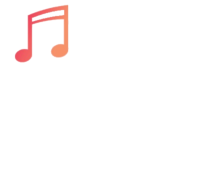
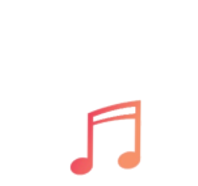
mise en place mediaquery

Changed region(s): [[0.3333, 0.5376, 0.7273, 0.9677], [0.0606, 0.0269, 0.3636, 0.3495]]

diff --git a/sass/style2.min.css b/sass/style2.min.css
@@ -1,2 +1,2 @@
-div,section aside,.container,header,footer{display:-webkit-box;display:-ms-flexbox;display:flex;-webkit-box-pack:center;-ms-flex-pack:center;justify-content:center;text-align:center}body{margin:0;padding:0;font-family:"Segoe UI",Tahoma,Geneva,Verdana,sans-serif;color:#fbc02d;background-size:cover;cursor:default}body header,body footer{background-color:#00897b}body footer{background-color:#00897b}header,footer{width:100%;height:250px}h1{font-size:110px}h2{text-align:center;font-size:35px}section{background-color:#ffd9c9;color:#000;width:50%;margin:60px}section aside{-webkit-box-pack:center;-ms-flex-pack:center;justify-content:center;-webkit-box-align:center;-ms-flex-align:center;align-items:center;-webkit-box-orient:vertical;-webkit-box-direction:normal;-ms-flex-direction:column;flex-direction:column}.bg-color{background-color:#fff;color:#b3f4c6}h3{width:300px;font-size:25px;text-transform:uppercase}h3:after{display:block;content:"";border-bottom:solid 3px rgba(0,0,0,.8);-webkit-transform:scaleX(0);transform:scaleX(0);-webkit-transition:-webkit-transform 250ms ease-in-out;transition:-webkit-transform 250ms ease-in-out;transition:transform 250ms ease-in-out;transition:transform 250ms ease-in-out, -webkit-transform 250ms ease-in-out;-webkit-transform-origin:0% 50%;transform-origin:0% 50%}h3:hover:after{-webkit-transform:scaleX(1);transform:scaleX(1)}div{width:100%;-webkit-box-orient:horizontal;-webkit-box-direction:normal;-ms-flex-direction:row;flex-direction:row;-webkit-box-pack:justify;-ms-flex-pack:justify;justify-content:space-between}div p{text-align:left;line-height:32px;margin:0px 70px 0px 70px;padding:5px}.prix{text-align:right}footer{margin-top:50px;-webkit-box-pack:justify;-ms-flex-pack:justify;justify-content:space-between;height:40px;position:-webkit-sticky;position:sticky;top:500px;left:0px;right:0px;bottom:0px}footer .lien_wiggle{font-size:20px;text-align:justify;margin:10px 10px 0px 10px;background-color:#00897b;color:#fbc02d;text-decoration:none}.lien_wiggle:hover{-webkit-animation:shake 1s;animation:shake 1s;-webkit-animation-iteration-count:infinite;animation-iteration-count:infinite}@-webkit-keyframes shake{0%{-webkit-transform:translate(1px, 1px) rotate(0deg);transform:translate(1px, 1px) rotate(0deg)}10%{-webkit-transform:translate(-1px, -2px) rotate(-1deg);transform:translate(-1px, -2px) rotate(-1deg)}20%{-webkit-transform:translate(-3px, 0px) rotate(1deg);transform:translate(-3px, 0px) rotate(1deg)}30%{-webkit-transform:translate(3px, 2px) rotate(0deg);transform:translate(3px, 2px) rotate(0deg)}40%{-webkit-transform:translate(1px, -1px) rotate(1deg);transform:translate(1px, -1px) rotate(1deg)}50%{-webkit-transform:translate(-1px, 2px) rotate(-1deg);transform:translate(-1px, 2px) rotate(-1deg)}60%{-webkit-transform:translate(-3px, 1px) rotate(0deg);transform:translate(-3px, 1px) rotate(0deg)}70%{-webkit-transform:translate(3px, 1px) rotate(-1deg);transform:translate(3px, 1px) rotate(-1deg)}80%{-webkit-transform:translate(-1px, -1px) rotate(1deg);transform:translate(-1px, -1px) rotate(1deg)}90%{-webkit-transform:translate(1px, 2px) rotate(0deg);transform:translate(1px, 2px) rotate(0deg)}100%{-webkit-transform:translate(1px, -2px) rotate(-1deg);transform:translate(1px, -2px) rotate(-1deg)}}@keyframes shake{0%{-webkit-transform:translate(1px, 1px) rotate(0deg);transform:translate(1px, 1px) rotate(0deg)}10%{-webkit-transform:translate(-1px, -2px) rotate(-1deg);transform:translate(-1px, -2px) rotate(-1deg)}20%{-webkit-transform:translate(-3px, 0px) rotate(1deg);transform:translate(-3px, 0px) rotate(1deg)}30%{-webkit-transform:translate(3px, 2px) rotate(0deg);transform:translate(3px, 2px) rotate(0deg)}40%{-webkit-transform:translate(1px, -1px) rotate(1deg);transform:translate(1px, -1px) rotate(1deg)}50%{-webkit-transform:translate(-1px, 2px) rotate(-1deg);transform:translate(-1px, 2px) rotate(-1deg)}60%{-webkit-transform:translate(-3px, 1px) rotate(0deg);transform:translate(-3px, 1px) rotate(0deg)}70%{-webkit-transform:translate(3px, 1px) rotate(-1deg);transform:translate(3px, 1px) rotate(-1deg)}80%{-webkit-transform:translate(-1px, -1px) rotate(1deg);transform:translate(-1px, -1px) rotate(1deg)}90%{-webkit-transform:translate(1px, 2px) rotate(0deg);transform:translate(1px, 2px) rotate(0deg)}100%{-webkit-transform:translate(1px, -2px) rotate(-1deg);transform:translate(1px, -2px) rotate(-1deg)}}
+.img_bas,div,.titre,section aside,.container,header,footer{display:-webkit-box;display:-ms-flexbox;display:flex;-webkit-box-pack:center;-ms-flex-pack:center;justify-content:center;text-align:center}body{margin:0;padding:0;font-family:"Segoe UI",Tahoma,Geneva,Verdana,sans-serif;color:#fbc02d;background-size:cover;cursor:default}body header,body footer{background-color:#00897b}body footer{background-color:#00897b}header,footer{width:100%;height:250px}h1{font-size:110px}h2{text-align:center;font-size:35px;margin:0px}section{background-color:#ffd9c9;color:#000;width:50%;margin:60px}section aside{-webkit-box-pack:center;-ms-flex-pack:center;justify-content:center;-webkit-box-align:center;-ms-flex-align:center;align-items:center;-webkit-box-orient:vertical;-webkit-box-direction:normal;-ms-flex-direction:column;flex-direction:column}.bg-color{background-color:#fff;color:#b3f4c6}.titre{-webkit-box-orient:vertical;-webkit-box-direction:normal;-ms-flex-direction:column;flex-direction:column;-webkit-box-align:center;-ms-flex-align:center;align-items:center;height:200px;margin-bottom:60px}img{margin:0px 0px 5px}h3{width:300px;font-size:25px}h3:after{display:block;content:"";border-bottom:solid 3px rgba(0,0,0,.8);-webkit-transform:scaleX(0);transform:scaleX(0);-webkit-transition:-webkit-transform 250ms ease-in-out;transition:-webkit-transform 250ms ease-in-out;transition:transform 250ms ease-in-out;transition:transform 250ms ease-in-out, -webkit-transform 250ms ease-in-out;-webkit-transform-origin:0% 50%;transform-origin:0% 50%}h3:hover:after{-webkit-transform:scaleX(1);transform:scaleX(1)}div{width:100%;-webkit-box-orient:horizontal;-webkit-box-direction:normal;-ms-flex-direction:row;flex-direction:row;-webkit-box-pack:justify;-ms-flex-pack:justify;justify-content:space-between}div p{text-align:left;line-height:32px;margin:0px 70px 0px 70px;padding:5px}.prix{text-align:right}.img_bas{width:50%}.img_bas img{width:80px;height:100px;margin-bottom:90px}.img_bas p{margin:50px 0px 0px 0px}footer{margin-top:50px;-webkit-box-pack:justify;-ms-flex-pack:justify;justify-content:space-between;height:40px;position:-webkit-sticky;position:sticky;top:500px;left:0px;right:0px;bottom:0px}footer .lien_wiggle{font-size:20px;text-align:justify;margin:10px 10px 0px 10px;background-color:#00897b;color:#fbc02d;text-decoration:none}.lien_wiggle:hover{-webkit-animation:shake 1s;animation:shake 1s;-webkit-animation-iteration-count:infinite;animation-iteration-count:infinite}@-webkit-keyframes shake{0%{-webkit-transform:translate(1px, 1px) rotate(0deg);transform:translate(1px, 1px) rotate(0deg)}10%{-webkit-transform:translate(-1px, -2px) rotate(-1deg);transform:translate(-1px, -2px) rotate(-1deg)}20%{-webkit-transform:translate(-3px, 0px) rotate(1deg);transform:translate(-3px, 0px) rotate(1deg)}30%{-webkit-transform:translate(3px, 2px) rotate(0deg);transform:translate(3px, 2px) rotate(0deg)}40%{-webkit-transform:translate(1px, -1px) rotate(1deg);transform:translate(1px, -1px) rotate(1deg)}50%{-webkit-transform:translate(-1px, 2px) rotate(-1deg);transform:translate(-1px, 2px) rotate(-1deg)}60%{-webkit-transform:translate(-3px, 1px) rotate(0deg);transform:translate(-3px, 1px) rotate(0deg)}70%{-webkit-transform:translate(3px, 1px) rotate(-1deg);transform:translate(3px, 1px) rotate(-1deg)}80%{-webkit-transform:translate(-1px, -1px) rotate(1deg);transform:translate(-1px, -1px) rotate(1deg)}90%{-webkit-transform:translate(1px, 2px) rotate(0deg);transform:translate(1px, 2px) rotate(0deg)}100%{-webkit-transform:translate(1px, -2px) rotate(-1deg);transform:translate(1px, -2px) rotate(-1deg)}}@keyframes shake{0%{-webkit-transform:translate(1px, 1px) rotate(0deg);transform:translate(1px, 1px) rotate(0deg)}10%{-webkit-transform:translate(-1px, -2px) rotate(-1deg);transform:translate(-1px, -2px) rotate(-1deg)}20%{-webkit-transform:translate(-3px, 0px) rotate(1deg);transform:translate(-3px, 0px) rotate(1deg)}30%{-webkit-transform:translate(3px, 2px) rotate(0deg);transform:translate(3px, 2px) rotate(0deg)}40%{-webkit-transform:translate(1px, -1px) rotate(1deg);transform:translate(1px, -1px) rotate(1deg)}50%{-webkit-transform:translate(-1px, 2px) rotate(-1deg);transform:translate(-1px, 2px) rotate(-1deg)}60%{-webkit-transform:translate(-3px, 1px) rotate(0deg);transform:translate(-3px, 1px) rotate(0deg)}70%{-webkit-transform:translate(3px, 1px) rotate(-1deg);transform:translate(3px, 1px) rotate(-1deg)}80%{-webkit-transform:translate(-1px, -1px) rotate(1deg);transform:translate(-1px, -1px) rotate(1deg)}90%{-webkit-transform:translate(1px, 2px) rotate(0deg);transform:translate(1px, 2px) rotate(0deg)}100%{-webkit-transform:translate(1px, -2px) rotate(-1deg);transform:translate(1px, -2px) rotate(-1deg)}}
 /*# sourceMappingURL=style2.min.css.map */

diff --git a/sass/style.min.css b/sass/style.min.css
@@ -1,2 +1,2 @@
-footer,.lien_transition,.button,.menu,header{display:-webkit-box;display:-ms-flexbox;display:flex;-webkit-box-pack:center;-ms-flex-pack:center;justify-content:center;text-align:center}body{margin:0;padding:0;font-family:"Segoe UI",Tahoma,Geneva,Verdana,sans-serif;color:#fbc02d;background-size:cover}body header{background-color:#00897b}body footer{background-color:#00897b}header{width:100%;height:250px;padding-bottom:50px}h1{font-size:110px}.menu{margin-top:100px;margin-bottom:50px}img{margin:40px;width:200px;height:250px;-webkit-filter:drop-shadow(0 0 0.75rem lightgrey);filter:drop-shadow(0 0 0.75rem lightgrey);-webkit-transform:scale(1);transform:scale(1);-webkit-transition:-webkit-transform 500ms;transition:-webkit-transform 500ms;transition:transform 500ms;transition:transform 500ms, -webkit-transform 500ms}img:hover{-webkit-transform:scale(1.1);transform:scale(1.1);opacity:.4}.lien{background-color:#00897b;color:#fbc02d;text-decoration:none}.lien_transition{width:300px;font-size:25px;border-radius:10px;cursor:default;-webkit-transform:scale(1);transform:scale(1);-webkit-transition:-webkit-transform 500ms;transition:-webkit-transform 500ms;transition:transform 500ms;transition:transform 500ms, -webkit-transform 500ms;padding-bottom:10px}.lien_transition:hover{-webkit-transform:scale(1.2);transform:scale(1.2)}footer{margin-top:50px;-webkit-box-pack:justify;-ms-flex-pack:justify;justify-content:space-between;height:50px;position:-webkit-sticky;position:sticky;top:500px;left:0px;right:0px;bottom:0px}footer .lien_wiggle{font-size:20px;height:40px;text-align:justify;margin:10px 10px 0px 10px}.lien_wiggle:hover{-webkit-animation:shake 1s;animation:shake 1s;-webkit-animation-iteration-count:infinite;animation-iteration-count:infinite}@-webkit-keyframes shake{0%{-webkit-transform:translate(1px, 1px) rotate(0deg);transform:translate(1px, 1px) rotate(0deg)}10%{-webkit-transform:translate(-1px, -2px) rotate(-1deg);transform:translate(-1px, -2px) rotate(-1deg)}20%{-webkit-transform:translate(-3px, 0px) rotate(1deg);transform:translate(-3px, 0px) rotate(1deg)}30%{-webkit-transform:translate(3px, 2px) rotate(0deg);transform:translate(3px, 2px) rotate(0deg)}40%{-webkit-transform:translate(1px, -1px) rotate(1deg);transform:translate(1px, -1px) rotate(1deg)}50%{-webkit-transform:translate(-1px, 2px) rotate(-1deg);transform:translate(-1px, 2px) rotate(-1deg)}60%{-webkit-transform:translate(-3px, 1px) rotate(0deg);transform:translate(-3px, 1px) rotate(0deg)}70%{-webkit-transform:translate(3px, 1px) rotate(-1deg);transform:translate(3px, 1px) rotate(-1deg)}80%{-webkit-transform:translate(-1px, -1px) rotate(1deg);transform:translate(-1px, -1px) rotate(1deg)}90%{-webkit-transform:translate(1px, 2px) rotate(0deg);transform:translate(1px, 2px) rotate(0deg)}100%{-webkit-transform:translate(1px, -2px) rotate(-1deg);transform:translate(1px, -2px) rotate(-1deg)}}@keyframes shake{0%{-webkit-transform:translate(1px, 1px) rotate(0deg);transform:translate(1px, 1px) rotate(0deg)}10%{-webkit-transform:translate(-1px, -2px) rotate(-1deg);transform:translate(-1px, -2px) rotate(-1deg)}20%{-webkit-transform:translate(-3px, 0px) rotate(1deg);transform:translate(-3px, 0px) rotate(1deg)}30%{-webkit-transform:translate(3px, 2px) rotate(0deg);transform:translate(3px, 2px) rotate(0deg)}40%{-webkit-transform:translate(1px, -1px) rotate(1deg);transform:translate(1px, -1px) rotate(1deg)}50%{-webkit-transform:translate(-1px, 2px) rotate(-1deg);transform:translate(-1px, 2px) rotate(-1deg)}60%{-webkit-transform:translate(-3px, 1px) rotate(0deg);transform:translate(-3px, 1px) rotate(0deg)}70%{-webkit-transform:translate(3px, 1px) rotate(-1deg);transform:translate(3px, 1px) rotate(-1deg)}80%{-webkit-transform:translate(-1px, -1px) rotate(1deg);transform:translate(-1px, -1px) rotate(1deg)}90%{-webkit-transform:translate(1px, 2px) rotate(0deg);transform:translate(1px, 2px) rotate(0deg)}100%{-webkit-transform:translate(1px, -2px) rotate(-1deg);transform:translate(1px, -2px) rotate(-1deg)}}@media screen and (max-width: 812px){header{height:75px}header h1{font-size:40px}.menu{width:100%;height:100%;margin-top:70px;margin-bottom:70px}img{width:90px;height:110px;margin:20px}.lien_transition{height:auto;font-size:15px;cursor:default;-webkit-transform:scale(1);transform:scale(1);-webkit-transition:-webkit-transform 500ms;transition:-webkit-transform 500ms;transition:transform 500ms;transition:transform 500ms, -webkit-transform 500ms}.lien_transition:hover{-webkit-transform:scale(1.2);transform:scale(1.2)}footer{height:50px}}
+footer,.lien_transition,.button,.menu,header{display:-webkit-box;display:-ms-flexbox;display:flex;-webkit-box-pack:center;-ms-flex-pack:center;justify-content:center;text-align:center}body{margin:0;padding:0;font-family:"Segoe UI",Tahoma,Geneva,Verdana,sans-serif;color:#fbc02d;background-size:cover}body header{background-color:#00897b}body footer{background-color:#00897b}header{width:100%;height:250px;padding-bottom:50px}h1{font-size:110px}.menu{margin-top:100px;margin-bottom:50px}img{margin:40px;width:200px;height:250px;-webkit-filter:drop-shadow(0 0 0.75rem lightgrey);filter:drop-shadow(0 0 0.75rem lightgrey);-webkit-transform:scale(1);transform:scale(1);-webkit-transition:-webkit-transform 500ms;transition:-webkit-transform 500ms;transition:transform 500ms;transition:transform 500ms, -webkit-transform 500ms}img:hover{-webkit-transform:scale(1.1);transform:scale(1.1);opacity:.4}.lien{background-color:#00897b;color:#fbc02d;text-decoration:none}.lien_transition{width:300px;font-size:25px;border-radius:10px;cursor:default}footer{margin-top:50px;-webkit-box-pack:justify;-ms-flex-pack:justify;justify-content:space-between;height:50px;position:-webkit-sticky;position:sticky;top:500px;left:0px;right:0px;bottom:0px}footer .lien_wiggle{font-size:20px;height:40px;text-align:justify;margin:10px 10px 0px 10px}.lien_wiggle:hover{-webkit-animation:shake 1s;animation:shake 1s;-webkit-animation-iteration-count:infinite;animation-iteration-count:infinite}@-webkit-keyframes shake{0%{-webkit-transform:translate(1px, 1px) rotate(0deg);transform:translate(1px, 1px) rotate(0deg)}10%{-webkit-transform:translate(-1px, -2px) rotate(-1deg);transform:translate(-1px, -2px) rotate(-1deg)}20%{-webkit-transform:translate(-3px, 0px) rotate(1deg);transform:translate(-3px, 0px) rotate(1deg)}30%{-webkit-transform:translate(3px, 2px) rotate(0deg);transform:translate(3px, 2px) rotate(0deg)}40%{-webkit-transform:translate(1px, -1px) rotate(1deg);transform:translate(1px, -1px) rotate(1deg)}50%{-webkit-transform:translate(-1px, 2px) rotate(-1deg);transform:translate(-1px, 2px) rotate(-1deg)}60%{-webkit-transform:translate(-3px, 1px) rotate(0deg);transform:translate(-3px, 1px) rotate(0deg)}70%{-webkit-transform:translate(3px, 1px) rotate(-1deg);transform:translate(3px, 1px) rotate(-1deg)}80%{-webkit-transform:translate(-1px, -1px) rotate(1deg);transform:translate(-1px, -1px) rotate(1deg)}90%{-webkit-transform:translate(1px, 2px) rotate(0deg);transform:translate(1px, 2px) rotate(0deg)}100%{-webkit-transform:translate(1px, -2px) rotate(-1deg);transform:translate(1px, -2px) rotate(-1deg)}}@keyframes shake{0%{-webkit-transform:translate(1px, 1px) rotate(0deg);transform:translate(1px, 1px) rotate(0deg)}10%{-webkit-transform:translate(-1px, -2px) rotate(-1deg);transform:translate(-1px, -2px) rotate(-1deg)}20%{-webkit-transform:translate(-3px, 0px) rotate(1deg);transform:translate(-3px, 0px) rotate(1deg)}30%{-webkit-transform:translate(3px, 2px) rotate(0deg);transform:translate(3px, 2px) rotate(0deg)}40%{-webkit-transform:translate(1px, -1px) rotate(1deg);transform:translate(1px, -1px) rotate(1deg)}50%{-webkit-transform:translate(-1px, 2px) rotate(-1deg);transform:translate(-1px, 2px) rotate(-1deg)}60%{-webkit-transform:translate(-3px, 1px) rotate(0deg);transform:translate(-3px, 1px) rotate(0deg)}70%{-webkit-transform:translate(3px, 1px) rotate(-1deg);transform:translate(3px, 1px) rotate(-1deg)}80%{-webkit-transform:translate(-1px, -1px) rotate(1deg);transform:translate(-1px, -1px) rotate(1deg)}90%{-webkit-transform:translate(1px, 2px) rotate(0deg);transform:translate(1px, 2px) rotate(0deg)}100%{-webkit-transform:translate(1px, -2px) rotate(-1deg);transform:translate(1px, -2px) rotate(-1deg)}}@media screen and (max-width: 812px){header{height:75px}header h1{font-size:40px}.menu{width:100%;height:100%;margin-top:70px;margin-bottom:70px}img{width:150px;height:210px;margin:15px 10px}.lien_transition{height:auto;font-size:15px;cursor:default}footer{height:50px}}
 /*# sourceMappingURL=style.min.css.map */

diff --git a/la_palette_du_gout.html b/la_palette_du_gout.html
@@ -4,6 +4,7 @@
 <head>
     <meta charset="utf-8" />
     <link rel="stylesheet" href="sass/style2.css" />
+    <link rel="stylesheet" href="sass/media.css"/>
     <meta name="viewport" content="width=device-width, initial-scale=1, shrink-to-fit=no">
     <title>Oh!myfood!</title>
 </head>
@@ -12,31 +13,31 @@
     <header>
         <h1>ohmyfood</h1>
     </header>
-        <aside class="container">
+    <aside class="container">
         <section class="bg-color">
             <h2>La palette du Goût</h2>
             <aside>
-               <h3>Esquisse</h3>
+                <h3>Esquisse</h3>
                 <div>
-                <p><br/>
-                   Fricassée d'escargot au poivre d'espelette<br/>
-                   Oeuf au plat assaisonné à la truffe sur lit de caviar<br/>
-                   Foie gras de canard mi-cuit et ses copeaux de truffe noire
-                    <br/>
-                </p>
-                <p class="prix">60€<br />
-                    55€<br />
-                    65€<br />
-                </p>
-            </div>
+                    <p><br />
+                        Fricassée d'escargot au poivre d'espelette<br />
+                        Oeuf au plat assaisonné à la truffe sur lit de caviar<br />
+                        Foie gras de canard mi-cuit et ses copeaux de truffe noire
+                        <br />
+                    </p>
+                    <p class="prix">60€<br />
+                        55€<br />
+                        65€<br />
+                    </p>
+                </div>
             </aside>
             <aside>
                 <h3>Oeuvre du maître</h3>
                 <div>
                     <p>
-                       Filet de boeuf aux herbes accompagné des sa ribambelle de légumes<br/>
-                       Parmetier de queue de boeuf à la truffe noire sur sa purée de panais<br/>
-                       Filet de Turbot aux agrumes<br/>
+                        Filet de boeuf aux herbes accompagné des sa ribambelle de légumes<br />
+                        Parmetier de queue de boeuf à la truffe noire sur sa purée de panais<br />
+                        Filet de Turbot aux agrumes<br />
                     </p>
                     <p class="prix">70€<br />
                         85€<br />
@@ -47,19 +48,19 @@
             <aside>
                 <h3>Mouvement final</h3>
                 <div>
-                <p class="dessert">
-                   Paris-Brest revisité<br/>
-                   Macaron au chocolat d'exception et glace à la vanille de madagascar<br/>
-                   Mousse au chocolat au piment d'espelette et à la truffe noire<br/>
-                </p>
-                <p class="prix">55€<br />
-                    65€<br />
-                    60€<br />
-                </p>
-            </div>
-            
+                    <p class="dessert">
+                        Paris-Brest revisité<br />
+                        Macaron au chocolat d'exception et glace à la vanille de madagascar<br />
+                        Mousse au chocolat au piment d'espelette et à la truffe noire<br />
+                    </p>
+                    <p class="prix">55€<br />
+                        65€<br />
+                        60€<br />
+                    </p>
+                </div>
+
             </aside>
-    
+
         </section>
     </aside>
     <footer>

diff --git a/sass/style.css b/sass/style.css
@@ -67,17 +67,6 @@ img:hover {
   font-size: 25px;
   border-radius: 10px;
   cursor: default;
-  -webkit-transform: scale(1);
-          transform: scale(1);
-  -webkit-transition: -webkit-transform 500ms;
-  transition: -webkit-transform 500ms;
-  transition: transform 500ms;
-  transition: transform 500ms, -webkit-transform 500ms;
-  padding-bottom: 10px;
-}
-.lien_transition:hover {
-  -webkit-transform: scale(1.2);
-          transform: scale(1.2);
 }
 
 footer {
@@ -216,25 +205,15 @@ footer .lien_wiggle {
   }
 
   img {
-    width: 90px;
-    height: 110px;
-    margin: 20px;
+    width: 150px;
+    height: 210px;
+    margin: 15px 10px;
   }
 
   .lien_transition {
     height: auto;
     font-size: 15px;
     cursor: default;
-    -webkit-transform: scale(1);
-            transform: scale(1);
-    -webkit-transition: -webkit-transform 500ms;
-    transition: -webkit-transform 500ms;
-    transition: transform 500ms;
-    transition: transform 500ms, -webkit-transform 500ms;
-  }
-  .lien_transition:hover {
-    -webkit-transform: scale(1.2);
-            transform: scale(1.2);
   }
 
   footer {

diff --git a/sass/style2.css b/sass/style2.css
@@ -1,4 +1,4 @@
-div, section aside, .container, header, footer {
+.img_bas, div, .titre, section aside, .container, header, footer {
   display: -webkit-box;
   display: -ms-flexbox;
   display: flex;
@@ -35,6 +35,7 @@ h1 {
 h2 {
   text-align: center;
   font-size: 35px;
+  margin: 0px;
 }
 
 section {
@@ -61,10 +62,25 @@ section aside {
   color: #B3F4C6;
 }
 
+.titre {
+  -webkit-box-orient: vertical;
+  -webkit-box-direction: normal;
+      -ms-flex-direction: column;
+          flex-direction: column;
+  -webkit-box-align: center;
+      -ms-flex-align: center;
+          align-items: center;
+  height: 200px;
+  margin-bottom: 60px;
+}
+
+img {
+  margin: 0px 0px 5px;
+}
+
 h3 {
   width: 300px;
   font-size: 25px;
-  text-transform: uppercase;
 }
 
 h3:after {
@@ -105,6 +121,18 @@ div p {
 
 .prix {
   text-align: right;
+}
+
+.img_bas {
+  width: 50%;
+}
+.img_bas img {
+  width: 80px;
+  height: 100px;
+  margin-bottom: 90px;
+}
+.img_bas p {
+  margin: 50px 0px 0px 0px;
 }
 
 footer {

diff --git a/la_note_enchantee.html b/la_note_enchantee.html
@@ -4,6 +4,7 @@
 <head>
     <meta charset="utf-8" />
     <link rel="stylesheet" href="sass/style2.css" />
+    <link rel="stylesheet" href="sass/media.css"/>
     <meta name="viewport" content="width=device-width, initial-scale=1, shrink-to-fit=no">
     <title>Oh!myfood!</title>
 </head>
@@ -14,8 +15,10 @@
     </header>
     <aside class="container">
         <section>
+            <div class="titre">
             <img src="Menus/note.png" alt="note de musique" />
             <h2>La note Enchantée</h2>
+            </div>
             <aside>
                 <h3>Prélude</h3>
                 <div>
@@ -54,7 +57,7 @@
                         Tarte au citron meringuée destructurée<br />
                     </p>
                 </div>
-                <p><img src="Menus/note.png" alt="note de musique" />La note Enchantée</p>
+                <div class="img_bas"><img src="Menus/note.png" alt="note de musique" /><p>La note Enchantée</p></div>
             </aside>
 
         </section>

diff --git a/sass/style2.scss b/sass/style2.scss
@@ -1,6 +1,5 @@
 $color-primary: #00897B;
 $color-text: #FBC02D;
-$text-color:#B3F4C6;
 %header{
   display: flex;
   justify-content: center;
@@ -34,6 +33,7 @@ h1{
 h2{
     text-align: center;
     font-size: 35px;
+    margin: 0px;
 }
 .container{
     @extend %header; 
@@ -52,12 +52,21 @@ section{
 }
 .bg-color{
     background-color: white;
-    color: $text-color;
+    color: #B3F4C6;
+}
+.titre{
+    @extend %header;
+    flex-direction: column;
+    align-items: center;
+    height: 200px;
+    margin-bottom: 60px;
+}
+img{
+    margin: 0px 0px 5px;
 }
 h3{
     width: 300px;
     font-size: 25px;
-    text-transform: uppercase;
 }
 h3:after{
     display:block;
@@ -86,6 +95,18 @@ div{
 }
 .prix{
     text-align: right;
+}
+.img_bas{
+    @extend %header;
+    width: 50%;
+    img{
+    width: 80px;
+    height: 100px;
+    margin-bottom: 90px;
+    }
+    p{
+        margin: 50px 0px 0px 0px;
+    }
 }
 footer {
     @extend header;

diff --git a/sass/style.scss b/sass/style.scss
@@ -63,13 +63,6 @@ img {
         font-size: 25px;
         border-radius: 10px;
         cursor: default;
-        transform: scale(1);
-        transition: transform 500ms;
-        padding-bottom: 10px;
-         &:hover {
-        transform: scale(1.2);
-        
-        }
     }
     
 footer {
@@ -122,9 +115,9 @@ footer {
         margin-bottom: 70px;
     }
     img {
-      width: 90px;
-      height: 110px;
-      margin: 20px;
+      width: 150px;
+      height: 210px;
+      margin: 15px 10px;
 
       
     }
@@ -132,12 +125,6 @@ footer {
       height: auto;
       font-size: 15px;
         cursor: default;
-        transform: scale(1);
-        transition: transform 500ms;
-         &:hover {
-        transform: scale(1.2);
-
-      }
     }
     footer{
       height: 50px;
